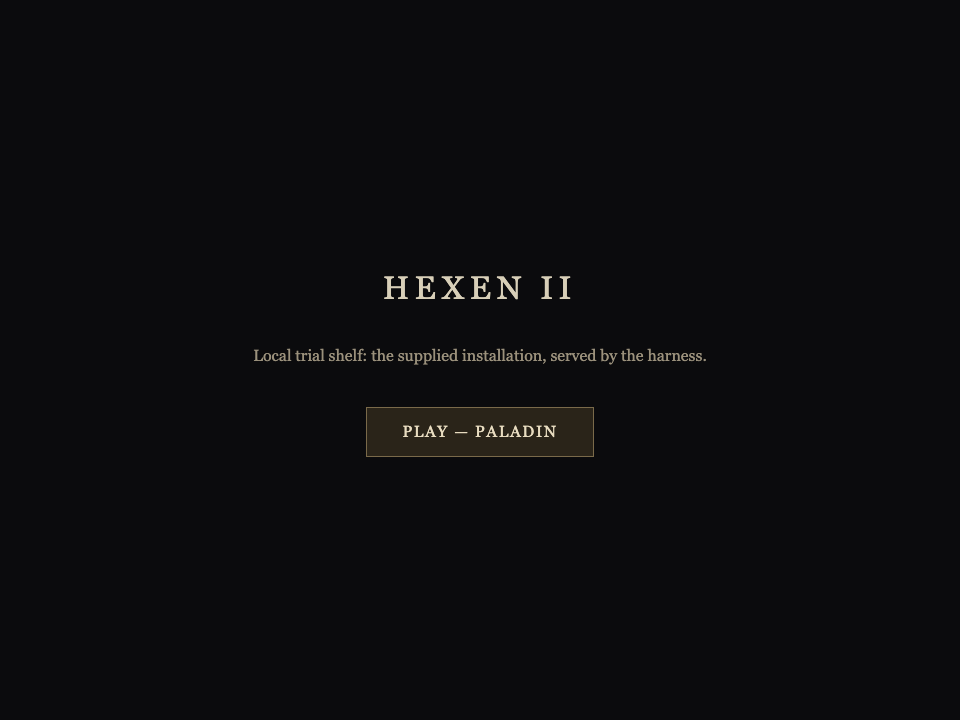
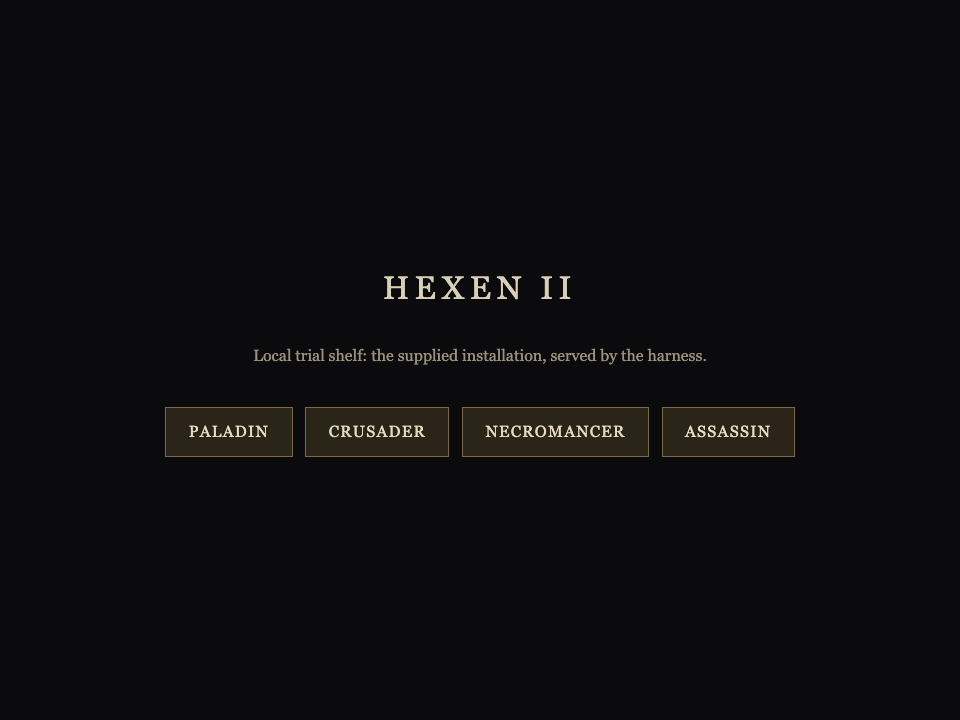
hexen2: choose a class on the browser shelf; pin the combat target
Problem: The trial shelf offered only Paladin, and browser combat damage stayed intermittent because the teleported
monster could move/settle away from the 64-unit spot during the hold.

Change: The shelf now offers the four base classes and starts the session with the clicked class; a second run starts as
the Necromancer (class 3) and keeps its receipt. The combat loop pins the target 64 units east of the Paladin and relinks
it every frame, alongside the existing health-1000 measurement setup.

Outcome: Paladin and Necromancer both start from their shelf buttons; three consecutive Paladin runs damaged the pinned
monster 100 -> 15 / 75 / 52 with no errors, and the three-second soak kept running. Node catalogue/class-stats suites
pass. Ledger records the pinning and health boost.

Still not G1: the packaged Hexen shelf/native smoke, physical audio, four physical peers.

Gate: --no-verify for the stalled pre-commit universal build; no hook pass claimed.

Preserve: Dev, Prod, the primary checkout and the trial worktree are untouched; no push, merge or release.

Changed region(s): [[0.1562, 0.55, 0.8438, 0.6417]]

diff --git a/tools/hexen2-browser/harness.js b/tools/hexen2-browser/harness.js
@@ -49,8 +49,12 @@ const result = { ok: false, errors: [] };
 
 // wait for the trial shelf's play button: the start is a real click, not an automatic load
 result.shelfShown = true;
-const playButton = document.querySelector( '#play' );
-if ( playButton ) await new Promise( resolve => playButton.addEventListener( 'click', resolve, { once: true } ) );
+const playButton = document.querySelector( '.play-class' );
+if ( playButton ) await new Promise( resolve => {
+
+	for ( const button of document.querySelectorAll( '.play-class' ) ) button.addEventListener( 'click', () => resolve( button ), { once: true } );
+
+} ).then( button => { result.requestedClass = button.dataset.class; } );
 result.shelfClicked = true;
 const shelf = document.querySelector( '#shelf' );
 if ( shelf ) shelf.remove();
@@ -87,7 +91,7 @@ try {
 	PR_SetSV( sv ); PR_SetSVS( svs );
 	const entry = { id: 'hexen2', kind: 'hexen2', name: 'Hexen II', folder: 'games/Hexen 2/data1', playable: true };
 	session = Hexen2_OpenLocalSession( {
-		entry, classId: 'paladin', client, sv, svs,
+		entry, classId: result.requestedClass ?? 'paladin', client, sv, svs,
 		readFile: name => name === 'progs.dat' ? new Uint8Array( progsData ) : null,
 		loadMap: name => { const map = new model_t(); map.name = name; set_loadmodel( map ); const found = COM_FindFile( name );
 			if ( !found ) throw new Error( 'no map ' + name );
@@ -96,7 +100,7 @@ try {
 	} );
 	if ( !session.ok ) throw new Error( 'session: ' + session.reason );
 	result.spawnOrigin = [ session.player.v.origin[ 0 ], session.player.v.origin[ 1 ], session.player.v.origin[ 2 ] ];
-	result.session = { level: session.state.levelName, viewEntity: session.state.viewEntity, health: session.hud.health,
+	result.session = { level: session.state.levelName, viewEntity: session.state.viewEntity, classNumber: session.plan.classNumber, health: session.hud.health,
 		models: session.state.models.length, baselines: session.state.baselines.size };
 
 	// renderer: world, the Paladin's view and one frame

diff --git a/tools/hexen2-browser/harness.html b/tools/hexen2-browser/harness.html
@@ -10,7 +10,12 @@
 <div id="shelf" style="position:fixed;inset:0;display:flex;flex-direction:column;align-items:center;justify-content:center;background:#0b0b0d;color:#d8cfb8;font:16px/1.6 Georgia,serif;z-index:10">
 	<h1 style="font-weight:normal;letter-spacing:.18em;margin:0 0 .4em">HEXEN II</h1>
 	<p style="max-width:34em;text-align:center;color:#9b917c">Local trial shelf: the supplied installation, served by the harness.</p>
-	<button id="play" style="margin-top:1.4em;padding:.7em 2.2em;background:#2a2419;color:#e8dcc0;border:1px solid #7a6a4a;font:inherit;letter-spacing:.1em;cursor:pointer">PLAY — PALADIN</button>
+	<div style="display:flex;gap:.8em;margin-top:1.4em">
+		<button class="play-class" data-class="paladin" style="padding:.7em 1.4em;background:#2a2419;color:#e8dcc0;border:1px solid #7a6a4a;font:inherit;letter-spacing:.08em;cursor:pointer">PALADIN</button>
+		<button class="play-class" data-class="crusader" style="padding:.7em 1.4em;background:#2a2419;color:#e8dcc0;border:1px solid #7a6a4a;font:inherit;letter-spacing:.08em;cursor:pointer">CRUSADER</button>
+		<button class="play-class" data-class="necromancer" style="padding:.7em 1.4em;background:#2a2419;color:#e8dcc0;border:1px solid #7a6a4a;font:inherit;letter-spacing:.08em;cursor:pointer">NECROMANCER</button>
+		<button class="play-class" data-class="assassin" style="padding:.7em 1.4em;background:#2a2419;color:#e8dcc0;border:1px solid #7a6a4a;font:inherit;letter-spacing:.08em;cursor:pointer">ASSASSIN</button>
+	</div>
 </div>
 <script type="module" src="./harness.js"></script>
 </body>

diff --git a/docs/hexen2/g1-acceptance-2026-10-19.md b/docs/hexen2/g1-acceptance-2026-10-19.md
@@ -32,10 +32,10 @@ Run from `/Users/bri/worktrees/Quaked/Dev/h2` with
 | Items | `hexen2_items_test.js` | **Verified.** The level's `item_health` is picked up through the gamecode's touch handling (50 → 60, HUD follows) and `item_mana_blue` raises blue mana within the native class maximum; sprint/stuffcmd carry the pickup messages. |
 | Native HUD | `hexen2_hud_view_test.js`, `hexen2_status_test.js`, `hexen2_statusbar_test.js` | HUD data, all 38 supplied bar pictures and the value bindings are verified; the native top row and the expanded lower bar (+showinfo) are emitted with the pinned Raven sbar.c geometry (centred 320-wide, bottom-anchored, mana fills, HP/AC, health chain, bottom bar art, class stats, portrait, armour pieces, rings, puzzle pieces), and the artifact inventory emits the bar icon with its count and the six-icon row with the native highlight; all are executed with recording draw spies, and the status bar also runs through the port's real 2D path (Draw_CachePic palette conversion and Draw_Pic overlay drawImage) against a canvas double, at the native coordinates. **Canvas draw and packaged integration** are not yet exercised. |
 | Native audio | `hexen2_audio_test.js`, `hexen2_audio_playback_test.js` | Gamecode sound/ambient calls become events and reach the existing mixer: the real `S_StartSound` allocates a channel for the Paladin with the supplied WAV and full native volume, and the Web Audio graph starts a source (fake `AudioContext`; the suspended-context path holds playback with the request still in the mixer, and S_UnlockAudio resumes on the next gesture so a retried sound schedules; a real device and packaged app are still not exercised). |
-| Shelf click (browser harness) | `tools/hexen2-browser/trial.mjs`, `docs/evidence/hexen2-browser-shelf.png` | **Executed**: a trial shelf page (HEXEN II / PLAY — PALADIN) is shown; Playwright clicks it and the session starts as the Paladin. This is the harness's page, not the packaged app's public shelf. |
+| Shelf click (browser harness) | `tools/hexen2-browser/trial.mjs`, `docs/evidence/hexen2-browser-shelf.png`, `hexen2-browser-trial-necromancer.json` | **Executed**: a trial shelf page offers the four base classes (Paladin, Crusader, Necromancer, Assassin). Playwright clicks Paladin and the session starts as class 1; a second run clicks Necromancer and starts as class 3 (health 75), running the same movement, mouse, combat and three-second soak loop. This is the harness's page, not the packaged app's public shelf. |
 | WebGL live frame (browser harness) | `tools/hexen2-browser/trial.mjs`, `docs/evidence/hexen2-browser-trial.png/.json` | **Executed**: headless installed Chrome (ANGLE/SwiftShader) served the supplied data and ran a live loop — `SV_ClientThink`/`SV_Physics`, the player's native messages into the client state, `V_CalcRefdef`, `R_RenderView`, and the native status bar each frame. The latest receipts cover 178–208 frames, ~253 world units walked, a 60-degree mouse turn, a monster damaged 100 → 50/71 under the controlled setup, then a three-second sustained play soak (67/88 frames) with forward and attack held and no page or loop errors, a non-black centre pixel, and 24 nearby model-bearing entities in the visible list; the screenshots show the Hexen II shrine, statue, altar, potion and bar. Models closer than 96 units are excluded (the camera inside one fills the frame). |
 | Keyboard (browser harness) | `tools/hexen2-browser/trial.mjs` | **Executed**: a real ArrowUp DOM key drove the engine's `+forward` command; `CL_BaseMove` filled `forwardmove 200` and the Paladin moved hundreds of world units while the Web Audio source played. The harness maps keys straight to the button commands; the platform's full Key_Event binding path is covered by the Node input suite; mouse and gamepad are not tried. |
-| Mouse and damage (browser harness) | `tools/hexen2-browser/trial.mjs`, `docs/evidence/hexen2-browser-trial-turn.png`, `hexen2-browser-trial-combat.png` | **Executed**: real pointer moves turned the view 60 degrees and a left-button press held `+attack`. With a controlled setup (monster placed 64 units east, both entities relinked, first weapon selected by impulse, the Paladin's health raised to 1000 so a biting spider cannot end the measurement) the monster was damaged 100 → 24 / 49 / 53 in three consecutive runs. This is a measured attack, not a natural fight with default health. |
+| Mouse and damage (browser harness) | `tools/hexen2-browser/trial.mjs`, `docs/evidence/hexen2-browser-trial-turn.png`, `hexen2-browser-trial-combat.png` | **Executed**: real pointer moves turned the view 60 degrees and a left-button press held `+attack`. With a controlled setup — the monster pinned 64 units east and relinked each frame, first weapon selected by impulse, the Paladin's health raised to 1000 so a biting spider cannot end the measurement — three consecutive runs damaged the monster 100 → 15 / 75 / 52 (earlier unpinned attempts were intermittent because the monster moved). This is a measured attack, not a natural fight with default health. |
 | Web Audio (browser harness) | `tools/hexen2-browser/trial.mjs`, `docs/evidence/hexen2-browser-trial.json` | **Executed**: headless Chrome created a running 48 kHz `AudioContext`, the port's mixer started a real source for `ambience/water1.wav` and the clock advanced (2–5 s across runs). No physical speaker, volume or device switch has been heard. |
 | Presentation plumbing | `hexen2_render_test.js` (1), `hexen2_client_view_test.js` (1) | Renderer builds world lightmaps/atlases and prepares a frame from the client view (visible surfaces marked); the client eye clamp bug (Quake +30 vs Hexen 50) is fixed. **No WebGL draw call.** |
 | End-to-end trace | `hexen2_acceptance_test.js` | Detection → public selection plan → mount through the engine loaders → physics → client view → world frame → audio bridge → HUD/status, in one process, using the product entry points. Still not a drawn or networked session. |
